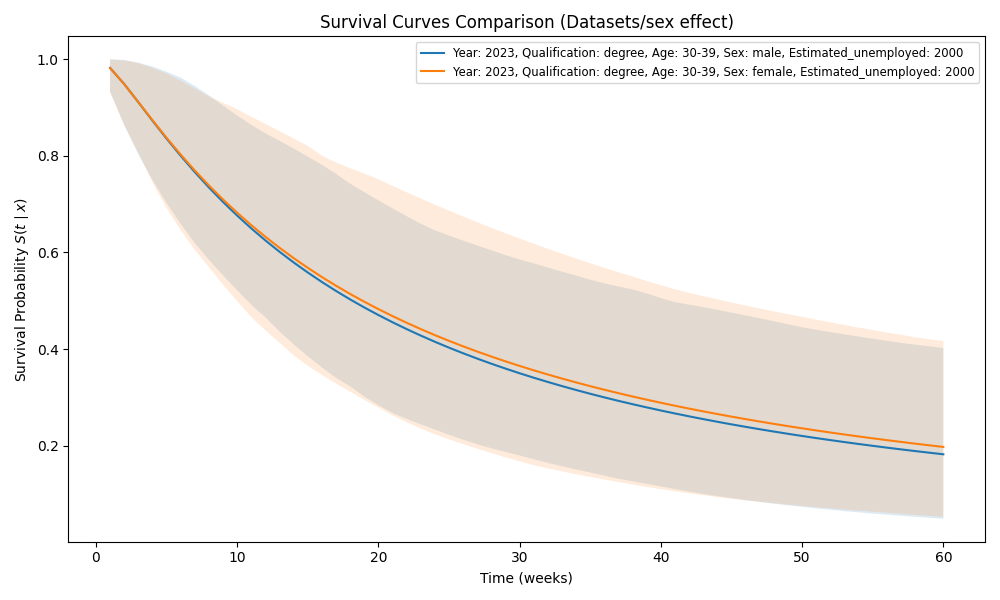
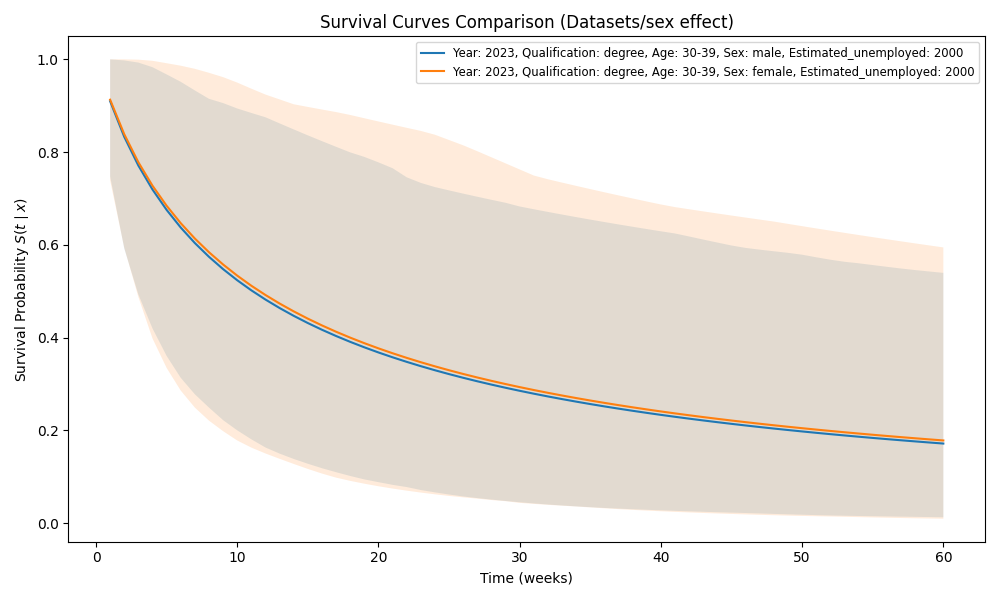
survival curves updated

diff --git a/prediction_custom.py b/prediction_custom.py
@@ -23,7 +23,7 @@ model = load_model_from_checkpoint(
 ######################################
 # Load Custom Input File (CHANGE HERE)
 ######################################
-input_file = "datasets/qual_effect.json"  # Change this to the desired JSON file
+input_file = "datasets/year_effect.json"  # Change this to the desired JSON file
 with open(input_file, "r") as f:
     custom_inputs = json.load(f)
 
